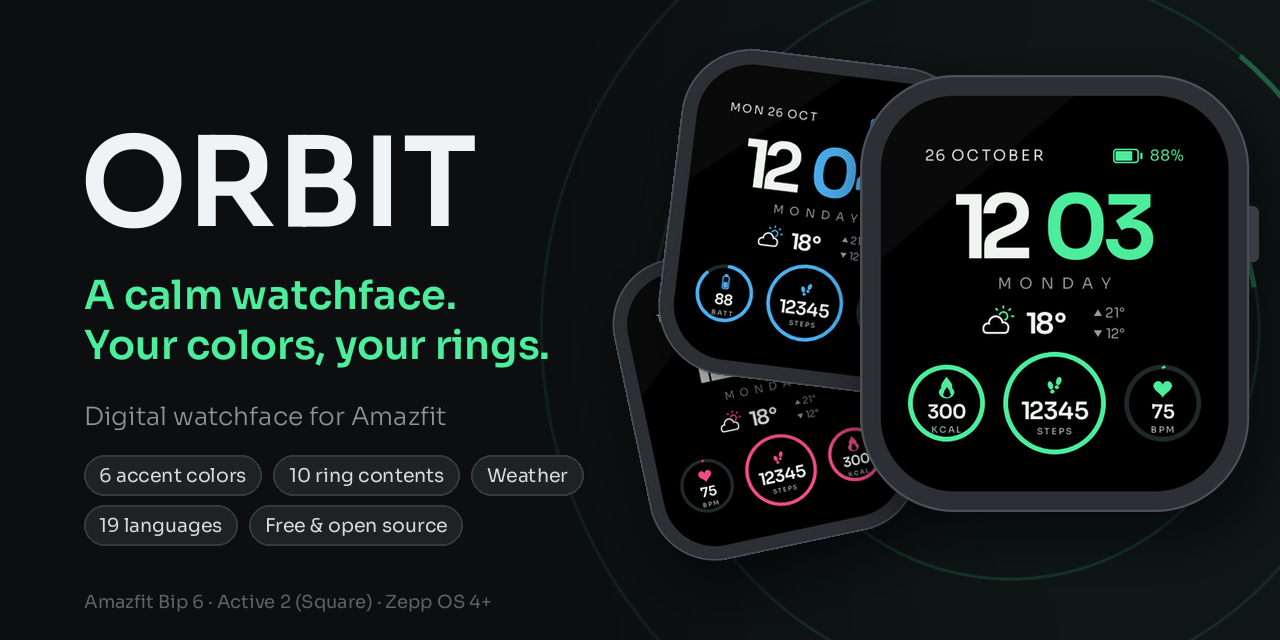
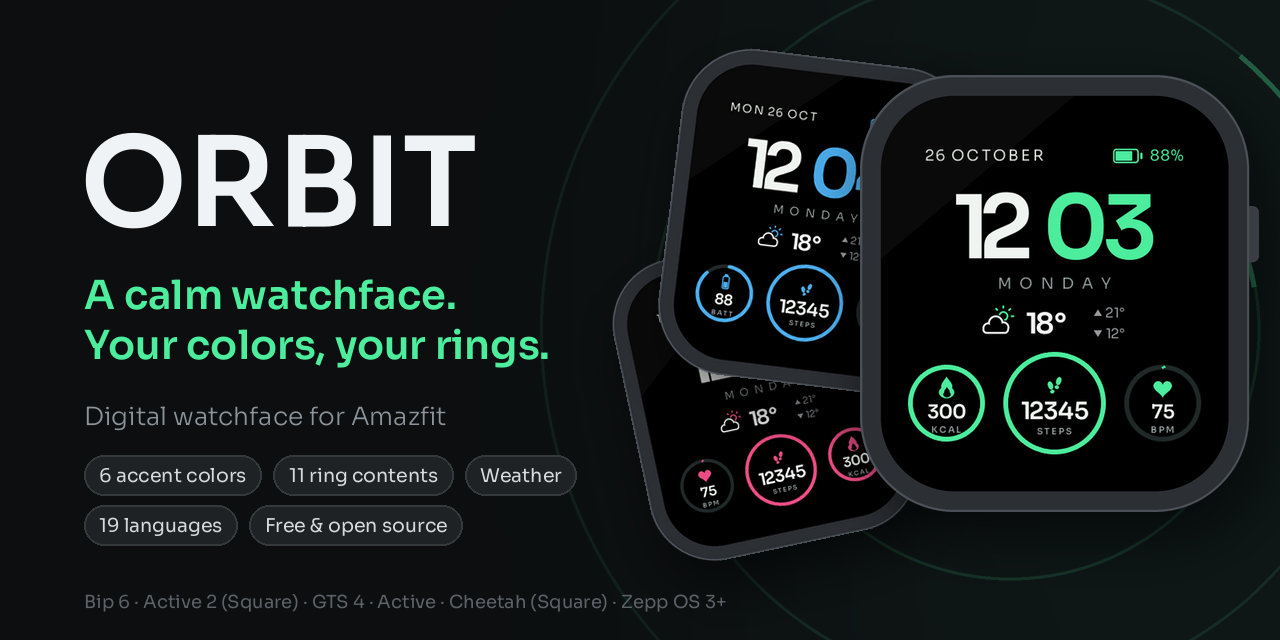
ORBIT 1.1.0 (in progress): music ring, GTS 4, Active and Cheetah (Square)
- Music ring: a note that opens the music player (SYSTEM_APP_MUSIC); the
  padel ring and it share appRing().
- Zepp OS 3 (API 3.0) is enough now, which adds the GTS 4, Active and
  Cheetah (Square) with the same 390x450 screen. Padel Punto needs Zepp OS 4,
  so without getPackageInfoById (API 4.0) the padel ring is not offered and
  the padel color is called Lime (new title in all 19 languages).
  Tested on the GTS 4 in the simulator.
- README, banner and store text name the new watches.

Changed region(s): [[0.0625, 0.9062, 0.5625, 0.9688], [0.2188, 0.7188, 0.4375, 0.7812]]

diff --git a/watchface/index.js b/watchface/index.js
@@ -9,7 +9,7 @@
 import * as hmUI from '@zos/ui'
 import { getLanguage, getTimeFormat, getDistanceUnit, TIME_FORMAT_12, DISTANCE_UNIT_IMPERIAL } from '@zos/settings'
 import { getProfile } from '@zos/user'
-import { SYSTEM_APP_STATUS, SYSTEM_APP_HR, SYSTEM_APP_WEATHER } from '@zos/router'
+import { SYSTEM_APP_STATUS, SYSTEM_APP_HR, SYSTEM_APP_WEATHER, SYSTEM_APP_MUSIC } from '@zos/router'
 import {
   Time,
   Battery,
@@ -25,7 +25,7 @@ import {
 } from '@zos/sensor'
 import { SIZES } from './sizes'
 import * as L from './lib/layout'
-import { KIND } from './lib/layout'
+import { KIND, APP_RINGS } from './lib/layout'
 import {
   NORMAL,
   FONT,
@@ -203,7 +203,7 @@ WatchFace({
     // --- rings: icon above the value, unit below; an empty ring draws nothing ---
     this.slots.forEach((s) => {
       if (s.kind === 'empty') return
-      if (s.kind === 'padel') return this.padelRing(s, C)
+      if (APP_RINGS.includes(s.kind)) return this.appRing(s, C)
       const h = SIZES[s.set].h
       const valY = L.RING_Y - Math.round((h - SIZES.val.h) / 2)
       const [iw, ih] = SIZES.icons[s.kind]
@@ -236,11 +236,12 @@ WatchFace({
     })
   },
 
-  // Padel ring: full ring with a racket in the middle and PADEL under it, a tap opens Padel Punto.
-  padelRing(s, C) {
-    const [iw, ih] = SIZES.icons.padel
+  // Ring without a value: full ring with a large icon and its name under it, a tap opens the app
+  // (Padel Punto or the music player).
+  appRing(s, C) {
+    const [iw, ih] = SIZES.icons[s.kind]
     ring(s.x, L.RING_Y, s.r, C.hex)(1)
-    img(s.x - Math.round(iw / 2), L.RING_Y - 7 - Math.round(ih / 2), `${C.dir}icon/padel.png`)
+    img(s.x - Math.round(iw / 2), L.RING_Y - 7 - Math.round(ih / 2), `${C.dir}icon/${s.kind}.png`)
     setText(
       label({
         x: s.x - s.r,
@@ -253,10 +254,12 @@ WatchFace({
         font: FONT_SB,
         align_h: hmUI.align.CENTER_H,
       }),
-      SIZES.units.padel,
+      SIZES.units[s.kind],
     )
+    const box = [s.x - s.r, L.RING_Y - s.r, 2 * s.r, 2 * s.r]
+    if (s.kind === 'music') return tapArea(...box, SYSTEM_APP_MUSIC)
     const k = KIND.padel
-    tapArea(s.x - s.r, L.RING_Y - s.r, 2 * s.r, 2 * s.r, k.app, k.page, `${k.title} \u2013 ${this.f.store}`)
+    tapArea(...box, k.app, k.page, `${k.title} \u2013 ${this.f.store}`)
   },
 
   startSensors() {
@@ -451,7 +454,7 @@ WatchFace({
   // all rings, or only those showing kind
   updateRings(kind) {
     this.slots.forEach((s) => {
-      if (s.kind === 'empty' || s.kind === 'padel' || (kind && s.kind !== kind)) return
+      if (s.kind === 'empty' || APP_RINGS.includes(s.kind) || (kind && s.kind !== kind)) return
       const { items, part } = this.readRing(s.kind, s.set === 'big')
       s.value.draw(items, s.x, 'center')
       s.arc(part)

diff --git a/watchface/lib/editor.js b/watchface/lib/editor.js
@@ -1,7 +1,12 @@
 // The watchface editor: the editable areas and what the user picked in them.
 import * as hmUI from '@zos/ui'
+import { getPackageInfoById } from '@zos/app'
 import { SIZES } from '../sizes'
 import { W, SIDE, TOP_Y, TIME_Y, DAY_Y, RING_Y, SLOTS, KINDS, KIND } from './layout'
+
+// Zepp OS 4 (API 4.0) or newer: only there Padel Punto can be installed, so only there the padel ring
+// is offered and the lime color is called "Padel" (getPackageInfoById is new in API 4.0).
+export const API4 = () => typeof getPackageInfoById === 'function'
 
 // Own editor types (the editor allows numbers from 100000 for these).
 const COLOR_TYPE = 100001 // + the number of the color (third entry in SIZES.colors)
@@ -51,7 +56,7 @@ export function readEditor(f) {
   const colors = SIZES.colors.map((c, i) => ({
     type: COLOR_TYPE + c[2],
     preview: `c/${c[0]}/edit.png`,
-    title: T.colors[i],
+    title: c[0] === 'padel' && !API4() ? T.lime : T.colors[i],
   }))
   const picked = editGroup(101, 30, TIME_Y - 7, 'color', COLOR_TYPE, colors, true)
   const ci = colors.findIndex((c) => c.type === picked)
@@ -63,7 +68,9 @@ export function readEditor(f) {
       ? SLOTS.map((s) => ({ ...s, kind: s.def }))
       : SLOTS.map((s) => {
           const [w, h] = SIZES.edit[s.size]
-          const options = KINDS.filter((k) => KIND[k].own || et[KIND[k].edit] !== undefined).map((k) => ({
+          const options = KINDS.filter(
+            (k) => (KIND[k].own || et[KIND[k].edit] !== undefined) && (k !== 'padel' || API4()),
+          ).map((k) => ({
             type: KIND[k].own || et[KIND[k].edit],
             preview: `edit/${s.size}_${k}.png`,
             title: KIND[k].own ? KIND[k].title || T[k] : undefined,

diff --git a/watchface/lib/layout.js b/watchface/lib/layout.js
@@ -28,7 +28,7 @@ export const SLOTS = [
 
 // Ring contents: their type in the watchface editor (hmUI.edit_type, or an own type) and the data type
 // that opens the matching app on tap (hmUI.data_type).
-export const KINDS = ['step', 'heart', 'cal', 'battery', 'distance', 'pai', 'stand', 'spo2', 'stress', 'padel']
+export const KINDS = ['step', 'heart', 'cal', 'battery', 'distance', 'pai', 'stand', 'spo2', 'stress', 'padel', 'music']
 export const KIND = {
   step: { edit: 'STEP', data: 'STEP' },
   heart: { edit: 'HEART', data: 'HEART' },
@@ -42,4 +42,8 @@ export const KIND = {
   stress: { edit: 'STRESS', data: 'STRESS' },
   // own type: no value, a racket in the ring that opens the app Padel Punto
   padel: { own: 100120, title: 'Padel Punto', app: 1132340, page: 'page/start' },
+  // own type: no value, a note that opens the music player (SYSTEM_APP_MUSIC)
+  music: { own: 100122 },
 }
+// rings without a value that only open an app
+export const APP_RINGS = ['padel', 'music']

diff --git a/watchface/sizes.js b/watchface/sizes.js
@@ -145,6 +145,10 @@ export const SIZES = {
       26,
       24
     ],
+    "music": [
+      40,
+      42
+    ],
     "padel": [
       40,
       42
@@ -288,6 +292,8 @@ export const SIZES = {
       ],
       "day": "Weekday",
       "empty": "Empty",
+      "lime": "Lime",
+      "music": "Music",
       "pai": "PAI (week)"
     }
   },
@@ -673,6 +679,7 @@ export const SIZES = {
     "heart": "BPM",
     "km": "KM",
     "mi": "MI",
+    "music": "MUSIC",
     "padel": "PADEL",
     "pai": "PAI",
     "spo2": "SPO2",

diff --git a/tools/make_assets.py b/tools/make_assets.py
@@ -131,6 +131,7 @@ with open(os.path.join(ROOT, 'tools', 'langs.json'), encoding='utf-8') as f:
 UNITS = {
     'step': 'STEPS', 'heart': 'BPM', 'cal': 'KCAL', 'battery': 'BATT', 'km': 'KM', 'mi': 'MI',
     'pai': 'PAI', 'stand': 'STAND', 'spo2': 'SPO2', 'stress': 'STRESS', 'padel': 'PADEL',
+    'music': 'MUSIC',
 }
 
 DATE_TRACK = 3
@@ -290,6 +291,20 @@ def _racket(d, col):
                 d.ellipse((x - 0.95 * S, y - 0.95 * S, x + 0.95 * S, y + 0.95 * S), fill=(0, 0, 0, 0))
 
 
+def _note(d, col):
+    # two beamed eighth notes
+    def head(cx, cy):
+        pts = [(math.cos(t) * 5.6, math.sin(t) * 4.2) for t in (2 * math.pi * k / 48 for k in range(48))]
+        c, s = math.cos(-0.45), math.sin(-0.45)
+        d.polygon([((cx + x * c - y * s) * S, (cy + x * s + y * c) * S) for x, y in pts], fill=col)
+
+    head(10, 33)
+    head(29, 29)
+    d.rectangle((14 * S, 8 * S, 17 * S, 33 * S), fill=col)
+    d.rectangle((33 * S, 4 * S, 36 * S, 29 * S), fill=col)
+    d.polygon([(14 * S, 8 * S), (36 * S, 2 * S), (36 * S, 9 * S), (14 * S, 15 * S)], fill=col)
+
+
 RING_ICONS = {
     'step': (26, 26, _footprints),
     'heart': (26, 24, _heart),
@@ -301,7 +316,10 @@ RING_ICONS = {
     'spo2': (20, 26, _drop),
     'stress': (28, 20, _gauge),
     'padel': (40, 42, _racket),
+    'music': (40, 42, _note),
 }
+# rings without a value that only open an app: the icon sits larger in the middle
+APP_RINGS = ('padel', 'music')
 
 
 def ring_icon(name, col):
@@ -469,7 +487,7 @@ EDIT = {
     'date': (250, 36),
 }
 TIPS_W, TIPS_H = 190, 34
-RING_PREVIEW = ['step', 'heart', 'cal', 'battery', 'distance', 'pai', 'stand', 'spo2', 'stress', 'padel', 'empty']
+RING_PREVIEW = ['step', 'heart', 'cal', 'battery', 'distance', 'pai', 'stand', 'spo2', 'stress', 'padel', 'music', 'empty']
 SAMPLE = {'wd': 0, 'day': 26, 'mon': 9, 'year': 2026}  # Monday, 26 October 2026
 DATE_STYLES = 3  # see 'dates' in tools/langs.json
 
@@ -507,7 +525,7 @@ def ring_previews():
             else:
                 d.ellipse(box, outline=DIM, width=6 * S)
             out = small(img, w, h)
-            if kind == 'padel':  # no value, the racket sits larger in the middle
+            if kind in APP_RINGS:  # no value, the icon sits larger in the middle
                 icon = ring_icon(kind, LIGHT)
                 paste_center(out, icon, w / 2, h / 2 - 7)
                 paste_center(out, text_img(UNITS[kind], f_cap, GRAY, 2), w / 2, h / 2 + 24)

diff --git a/tools/readme_art.py b/tools/readme_art.py
@@ -150,11 +150,11 @@ def banner(shots):
     d.text((84, 400), 'Digital watchface for Amazfit', font=font(25, 'Light'), fill=MUTED)
     f = font(19, 'Regular')
     x = pill(d, 84, 455, '6 accent colors', f)
-    x = pill(d, x, 455, '10 ring contents', f)
+    x = pill(d, x, 455, '11 ring contents', f)
     pill(d, x, 455, 'Weather', f)
     x = pill(d, 84, 505, '19 languages', f)
     pill(d, x, 505, 'Free & open source', f)
-    d.text((84, 590), 'Amazfit Bip 6 · Active 2 (Square) · Zepp OS 4+', font=font(18, 'Regular'), fill=(92, 98, 104))
+    d.text((84, 590), 'Bip 6 · Active 2 (Square) · GTS 4 · Active · Cheetah (Square) · Zepp OS 3+', font=font(18, 'Regular'), fill=(92, 98, 104))
     img.convert('RGB').save(os.path.join(IMAGES, 'banner.png'), optimize=True)
 
 

diff --git a/README.md b/README.md
@@ -1,11 +1,11 @@
 <p align="center">
-  <img src="docs/images/banner.png" alt="ORBIT – A calm watchface. Your colors, your rings. Digital watchface for the Amazfit Bip 6 and Active 2 (Square)">
+  <img src="docs/images/banner.png" alt="ORBIT – A calm watchface. Your colors, your rings. Digital watchface for square Amazfit watches: Bip 6, Active 2 (Square), GTS 4, Active and Cheetah (Square)">
 </p>
 
 <p align="center">
   <a href="https://github.com/fat-toni/ORBIT-Watchface/releases/latest"><img src="https://img.shields.io/github/v/release/fat-toni/ORBIT-Watchface?label=download&color=4ced9d&labelColor=23272c&style=for-the-badge" alt="Download the latest version"></a>
-  <img src="https://img.shields.io/badge/Amazfit-Bip%206%20%C2%B7%20Active%202%20Square-4ced9d?labelColor=23272c&style=for-the-badge" alt="Amazfit Bip 6 and Active 2 (Square)">
-  <img src="https://img.shields.io/badge/Zepp%20OS-4%2B-4ced9d?labelColor=23272c&style=for-the-badge" alt="Zepp OS 4+">
+  <img src="https://img.shields.io/badge/Amazfit-Bip%206%20%C2%B7%20Active%202%20Sq%20%C2%B7%20GTS%204%20%C2%B7%20Active%20%C2%B7%20Cheetah%20Sq-4ced9d?labelColor=23272c&style=for-the-badge" alt="Amazfit Bip 6, Active 2 (Square), GTS 4, Active and Cheetah (Square)">
+  <img src="https://img.shields.io/badge/Zepp%20OS-3%2B-4ced9d?labelColor=23272c&style=for-the-badge" alt="Zepp OS 3+">
   <a href="LICENSE"><img src="https://img.shields.io/badge/license-GPL--3.0-4ced9d?labelColor=23272c&style=for-the-badge" alt="GPL-3.0 License"></a>
 </p>
 
@@ -56,7 +56,8 @@ you pick: **Mint, Ice blue, Amber, Rose, Lavender or Padel** – the ball lime o
 
 - **Accent color:** six colors
 - **Each ring:** steps, heart rate, calories, battery, distance (km or miles, as set on the watch), PAI, stand,
-  SpO₂, stress, a racket that opens [Padel Punto](https://github.com/fat-toni/PadelPunto) – or empty
+  SpO₂, stress, a racket that opens [Padel Punto](https://github.com/fat-toni/PadelPunto), a note that opens the music
+  player – or empty
 - **Date:** long (“26 OCTOBER”), with the weekday (“MON 26 OCT”) or in numbers (“10/26/2026”)
 - **Row under the time:** weekday, your location (the place of the weather forecast) or empty
 
@@ -68,8 +69,9 @@ you pick: **Mint, Ice blue, Amber, Rose, Lavender or Padel** – the ball lime o
 
 ## ⌚ Get it on your watch
 
-ORBIT runs on the **Amazfit Bip 6** and the **Amazfit Active 2 (Square)** (Zepp OS 4 or newer; on the Active 2 it is
-not tested yet). It is not in the Zepp app store yet;
+ORBIT runs on square Amazfit watches with the 390×450 screen: the **Bip 6**, **Active 2 (Square)**, **GTS 4**,
+**Active** and **Cheetah (Square)** (Zepp OS 3 or newer). Tested on the Bip 6; the GTS 4 in the simulator, the others
+not yet. On Zepp OS 3 watches there is no Padel Punto, so there the padel ring is left out and its color is called Lime. It is not in the Zepp app store yet;
 grab the newest version from the **[Releases](https://github.com/fat-toni/ORBIT-Watchface/releases/latest)**.
 
 | | 📱 With the Zepp app | 🤖 With Gadgetbridge |
@@ -83,8 +85,8 @@ grab the newest version from the **[Releases](https://github.com/fat-toni/ORBIT-
 ## 🙋 Testers wanted
 
 > [!TIP]
-> **Got another square Amazfit watch with Zepp OS 4+?** ORBIT is made for the Bip 6 and also runs on the Active 2 (Square),
-> which has the same screen – but nobody has tried it there yet. The Bip Max is next, and later round watches too.
+> **Got a GTS 4, Active, Cheetah (Square) or Active 2 (Square)?** ORBIT is made for the Bip 6 and runs on these too,
+> they have the same screen – but nobody has tried it on a real one yet. The Bip Max is next, and later round watches too.
 >
 > 1. Open an **[issue](https://github.com/fat-toni/ORBIT-Watchface/issues/new?title=Tester:%20)** with your watch model and
 >    its Zepp OS version (on the watch: Settings → About).

diff --git a/CHANGELOG.md b/CHANGELOG.md
@@ -10,9 +10,13 @@ All changes to ORBIT, newest version first. Downloads are on the [Releases page]
 
 ### ✨ New
 
+- **Three more watches:** Amazfit GTS 4, Active and Cheetah (Square) – same screen, Zepp OS 3 or newer. There is no
+  Padel Punto for Zepp OS 3, so on these the padel ring is left out and its color is called Lime. Tested on the GTS 4
+  in the simulator.
 - **Padel ring:** pick "Padel Punto" for any ring in the watchface editor – a racket in your accent color,
   and a tap on it opens [Padel Punto](https://github.com/fat-toni/PadelPunto).
   Without Padel Punto on the watch, the tap shows where to get it: "Padel Punto – in the Zepp App Store".
+- **Music ring:** a note that opens the music player.
 - **Padel color:** a new accent color, the ball lime of Padel Punto.
 
 ### 🎨 Changed
